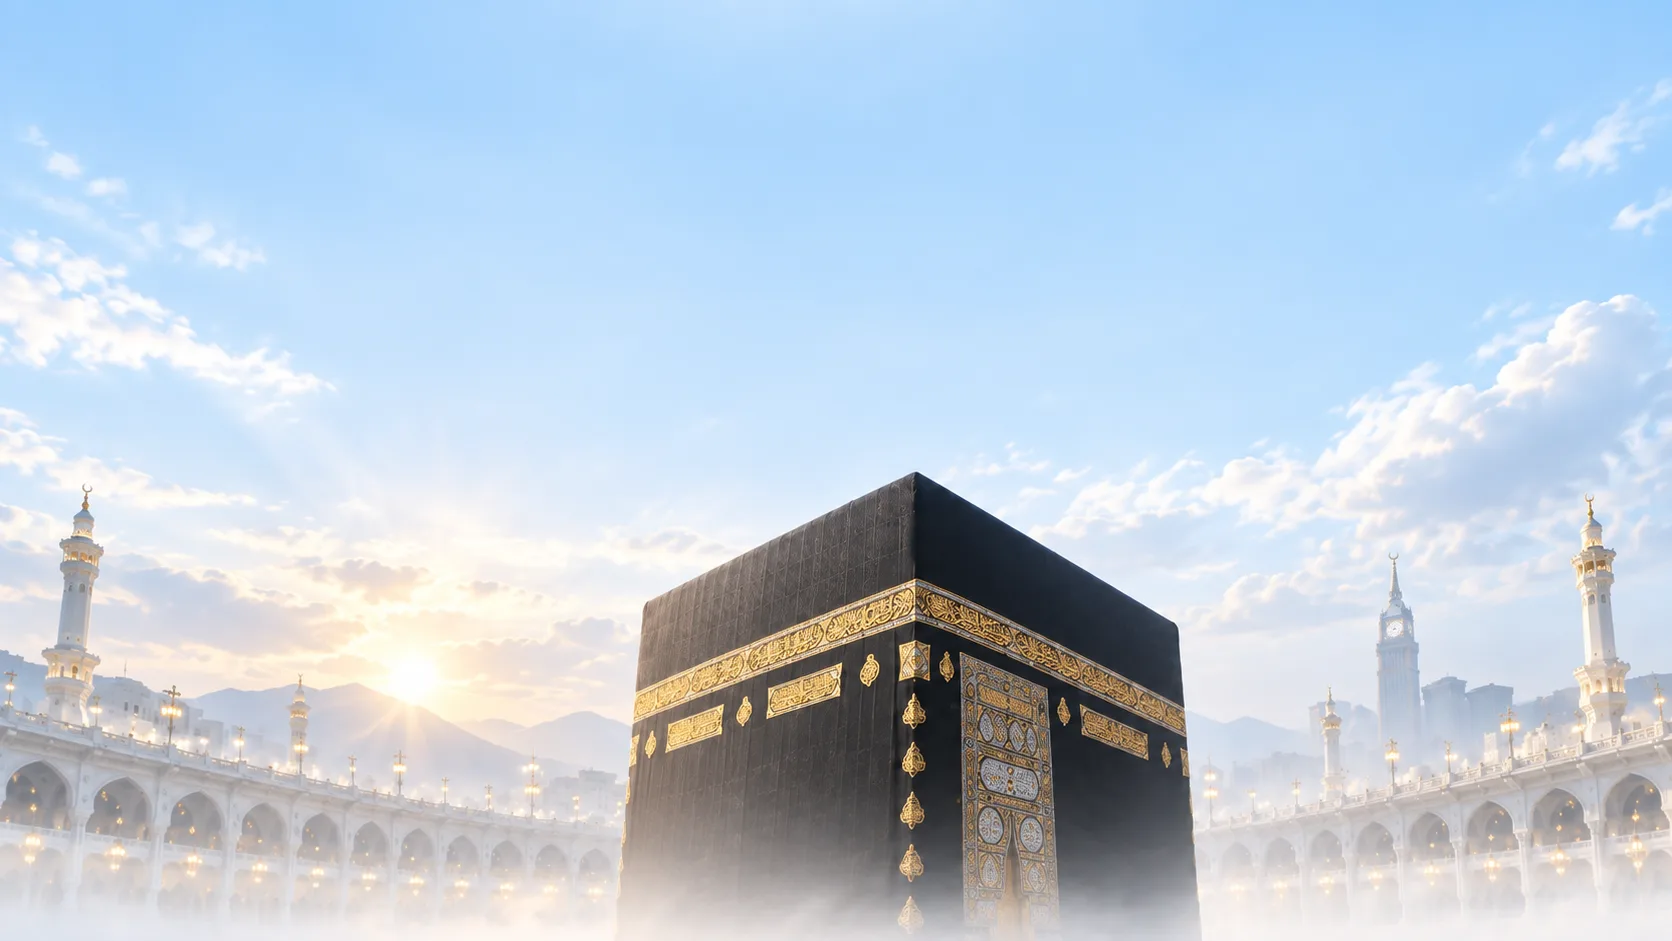
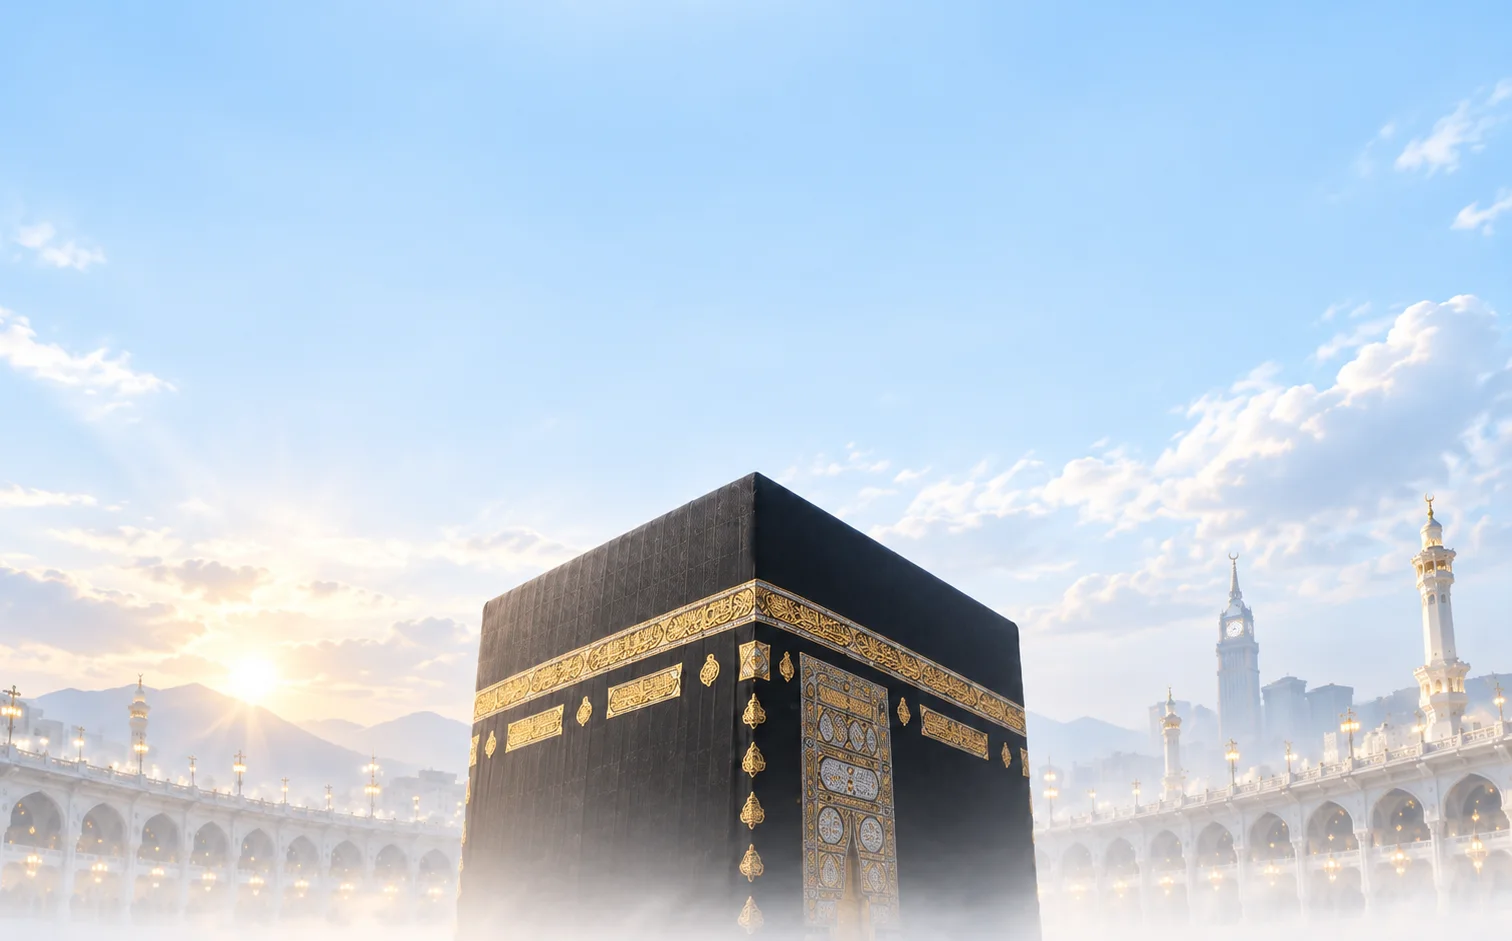
Hero: crop presisi foto Ka'bah
- Analisis piksel: sudut depan Ka'bah ada di x=916 (54.8%) dari foto asli
- Crop simetris (1512x941) supaya sudut Ka'bah tepat di tengah file
- CSS kembali ke centering biasa (-translate-x-1/2), tanpa offset manual
- Terverifikasi: sudut Ka'bah sejajar persis dengan titik tengah judul

diff --git a/src/components/home/Hero.tsx b/src/components/home/Hero.tsx
@@ -18,15 +18,16 @@ export function Hero() {
       {/* Sky, matched to the photo's own sky tone */}
       <div className="absolute inset-0 bg-gradient-to-b from-[#b3d3ec] via-[#c9def0] to-paper-2" />
 
-      {/* Photo at the bottom. Width = "zoom" per breakpoint; translate nudges
-          the Ka'bah to the horizontal centre. */}
+      {/* Photo at the bottom. It is pre-cropped so the Ka'bah corner sits at the
+          file's centre, so plain centring aligns it under the headline.
+          Width per breakpoint is the "zoom" control. */}
       {/* eslint-disable-next-line @next/next/no-img-element */}
       <img
         src="/img/hero-kaaba.webp"
         alt="Ka'bah di Masjidil Haram, Makkah"
-        width={1672}
+        width={1512}
         height={941}
-        className="pointer-events-none absolute bottom-0 left-1/2 w-[215%] max-w-none -translate-x-[56%] select-none [mask-image:linear-gradient(to_bottom,transparent,#000_22%)] sm:w-[135%] lg:w-full"
+        className="pointer-events-none absolute bottom-0 left-1/2 w-[190%] max-w-none -translate-x-1/2 select-none [mask-image:linear-gradient(to_bottom,transparent,#000_22%)] sm:w-[130%] lg:w-full"
       />
 
       <div className="absolute inset-x-0 top-0 h-1/2 bg-gradient-to-b from-white/45 to-transparent" />
